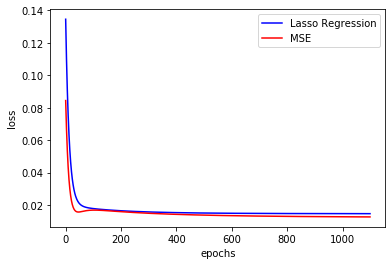
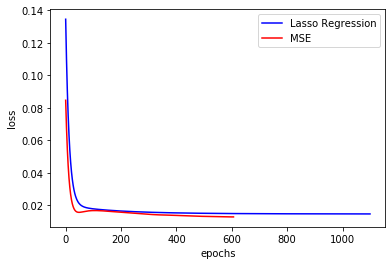
Add files via upload

Changed region(s): [[0.1837, 0.7547, 0.949, 0.8453], [0.1531, 0.634, 0.1837, 0.7547], [0.0306, 0.634, 0.1224, 0.6943]]

diff --git a/ai_hw_1.py b/ai_hw_1.py
@@ -1,0 +1,167 @@
+import numpy as np 
+from matplotlib import pyplot as plt
+
+    
+########################################################
+# import data 
+
+def get_train_test_set(file):
+    
+    data = np.loadtxt(file, skiprows=19)
+    # Delete the first column
+    data = np.delete(data, 0, 1)
+    
+    x = data[:, :-1]
+    add_list = []
+    for i in range(x.shape[1]):
+        col_value = x[:,i]
+        
+        max_col = np.max(col_value)
+        min_col = np.min(col_value)
+        new_value = (col_value - min_col) /(max_col - min_col)
+        add_list.append(new_value)
+          
+    norm_x = np.array(add_list).T
+    add_one_col = np.ones(norm_x.shape[0])
+    data_x = np.c_[norm_x, add_one_col]  
+    
+    y = data[:, -1]
+    max_y = np.max(y) # 1113.156 
+    min_y = np.min(y) # 790.733
+    norm_y = (y-min_y)/(max_y - min_y)
+    
+    
+    x_train = data_x[:int(0.8*data_x.shape[0])]
+    y_train = norm_y[:int(0.8*data_x.shape[0])]
+    x_test = data_x[int(0.8*data_x.shape[0]):]
+    y_test = norm_y[int(0.8*data_x.shape[0]):]
+    
+    return x_train, x_test, y_train, y_test
+    
+file = "data.txt"
+
+x_train, x_test, y_train, y_test = get_train_test_set(file)
+
+#######################################################################
+
+lambda_ridge = 2
+d = 15
+
+epsilon = 0.001 
+lr = 0.01
+
+def mse (x_test, y_test , w):
+    
+    diff = np.sum(w * x_test, axis = 1) - y_test
+    
+    mse = np.sum(diff **2) / (2* y_test.shape[0])
+    
+    return mse 
+
+
+def ridge_regression(x_train, y_train,lambda_ridge,x_test, y_test, epsilon, lr):
+
+    num_train = x_train.shape[0]
+    w = np.zeros(x_train.shape[1])
+    loss_bef = 1e-6
+    
+    loss_ridge = []
+    mse_curve = []
+    while  True: 
+        
+        y_hat = np.dot(w, x_train.T)
+        
+        linear_loss = np.sum((y_hat-y_train)**2)/(2*num_train)
+        ridge_loss = lambda_ridge * np.sum(w**2)/ (2*(d+1)) 
+        loss = linear_loss + ridge_loss
+        loss_ridge.append(loss)
+        
+        grad = np.dot(x_train.T, (y_hat-y_train))/num_train + lambda_ridge * w /(d)
+        w -= lr * grad 
+        
+        # mse 
+
+        mse_val = mse(x_test, y_test, w)
+        mse_curve.append(mse_val)
+        
+        if np.abs(loss-loss_bef)*100/loss_bef < epsilon:
+            break
+        else:
+            loss_bef = loss
+
+    return w, loss_ridge, mse_curve
+
+w_ridge, loss_ridge, mse_ridge = ridge_regression(x_train, y_train,lambda_ridge,x_test, y_test, epsilon, lr)
+print(sum(np.abs(w_ridge)<0.01))
+
+# square loss on test data 
+print("Squre Error of Ridge: ", mse(x_test, y_test, w_ridge)*x_test.shape[0]) # 0.1532659286282437 
+
+
+################################################################################
+# lasso 
+
+def sign(x):
+    if x >= 0:
+        return 1
+    elif x < 0:
+        return -1
+    else:
+        return 0
+    
+lambda_lasso = 0.3
+d = 15
+
+epsilon = 0.001 
+lr = 0.01
+
+
+def lasso_regression(x_train, y_train,lambda_ridge,x_test, y_test, epsilon, lr, sign):
+    
+    num_train = x_train.shape[0]
+    w = np.zeros(x_train.shape[1])
+    loss_bef = 1e-6
+    vec_sign = np.vectorize(sign)
+    loss_lasso = []
+    mse_curve = []
+    
+    while True:
+        y_hat = np.dot(w, x_train.T)
+        linear_loss = np.sum((y_hat-y_train)**2)/(2*num_train)
+        lasso_loss = lambda_lasso * np.sum(abs(w))/ (2*(d)) 
+        
+        loss = linear_loss + lasso_loss
+        
+        grad = np.dot(x_train.T, (y_hat-y_train))/num_train + lambda_lasso * vec_sign(w)/(2*d)
+        
+        w -= lr * grad 
+        
+        mse_val = mse(x_test, y_test, w)
+        mse_curve.append(mse_val)
+        
+        loss_lasso.append(loss)
+        
+        if np.abs(loss-loss_bef)*100/loss_bef < epsilon:
+            break
+        else:
+            loss_bef = loss
+        
+    return w, loss_lasso, mse_curve
+
+w_lasso, loss_lasso, mse_lasso = lasso_regression(x_train, y_train,lambda_ridge,x_test, y_test, epsilon, lr, sign)
+
+print(sum(np.abs(w_lasso)<0.01)) # 2 
+print("Squre Error of Lasso: ", mse(x_test, y_test, w_lasso)*x_test.shape[0])# 0.1553511078190968 
+
+################################################################################
+def plot_diag(loss, mse,label_loss):
+    plt.plot(loss_ridge , color = 'blue', label = label_loss)
+    plt.plot(mse, color = 'red', label ='MSE')
+    plt.xlabel('epochs')
+    plt.ylabel('loss')
+    plt.legend()
+    plt.show()
+
+plot_diag(loss_ridge, mse_ridge, "Ridge Regression")
+
+plot_diag(loss_lasso, mse_lasso, "Lasso Regression")
